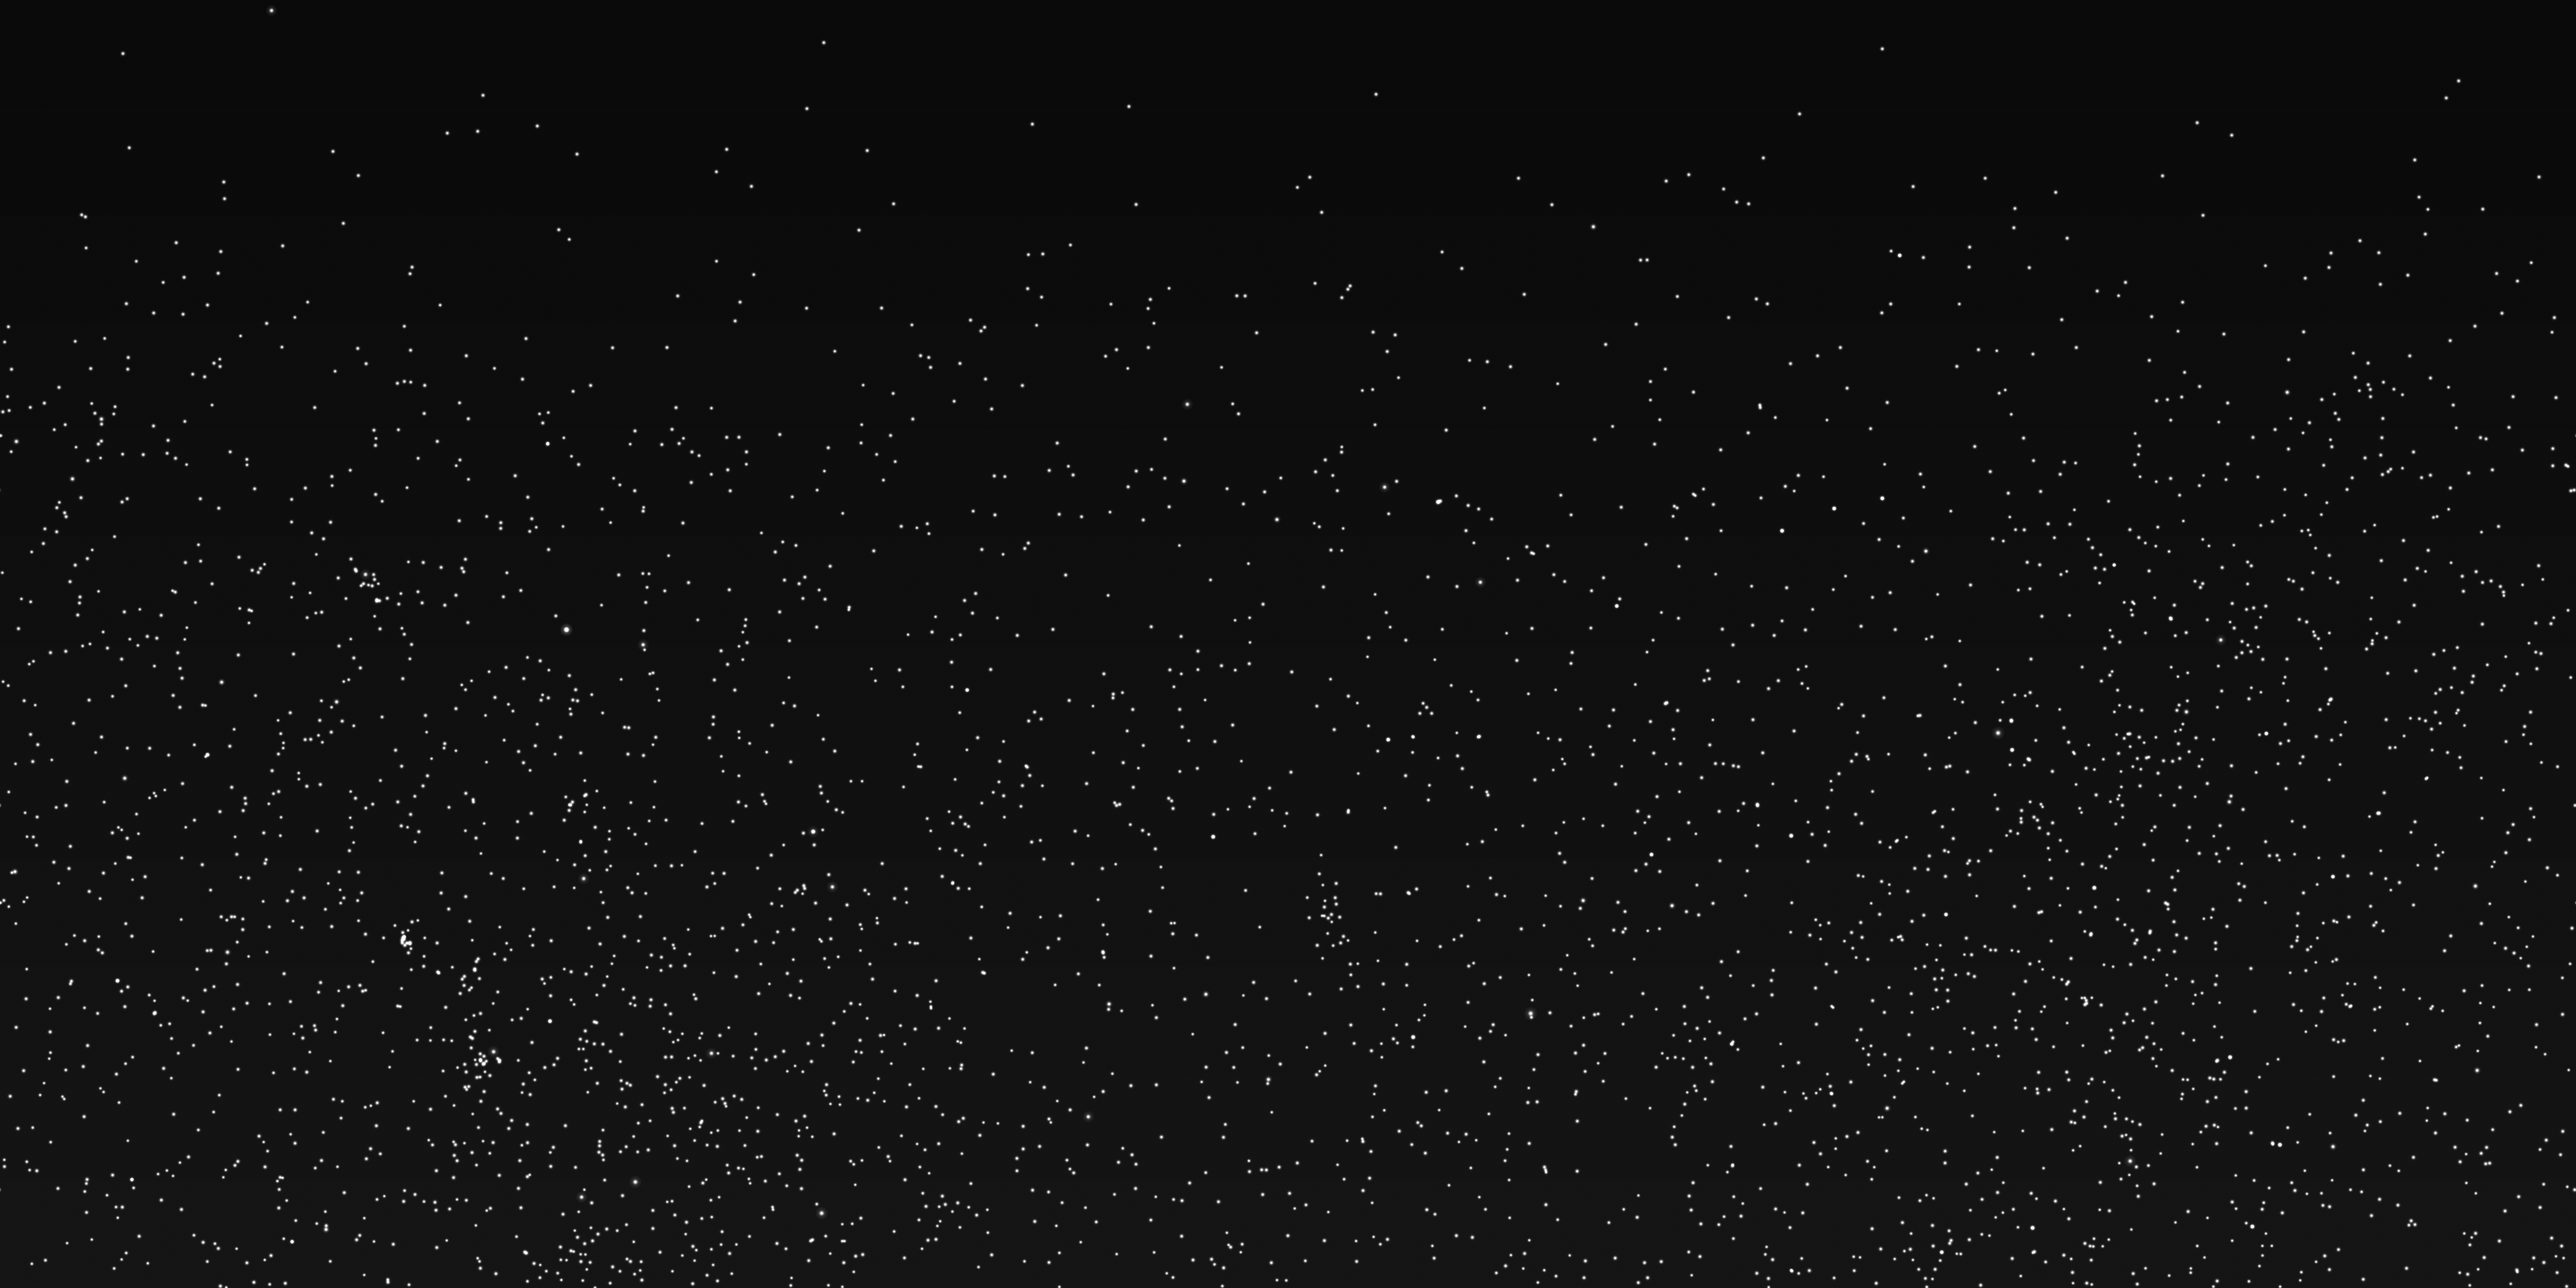
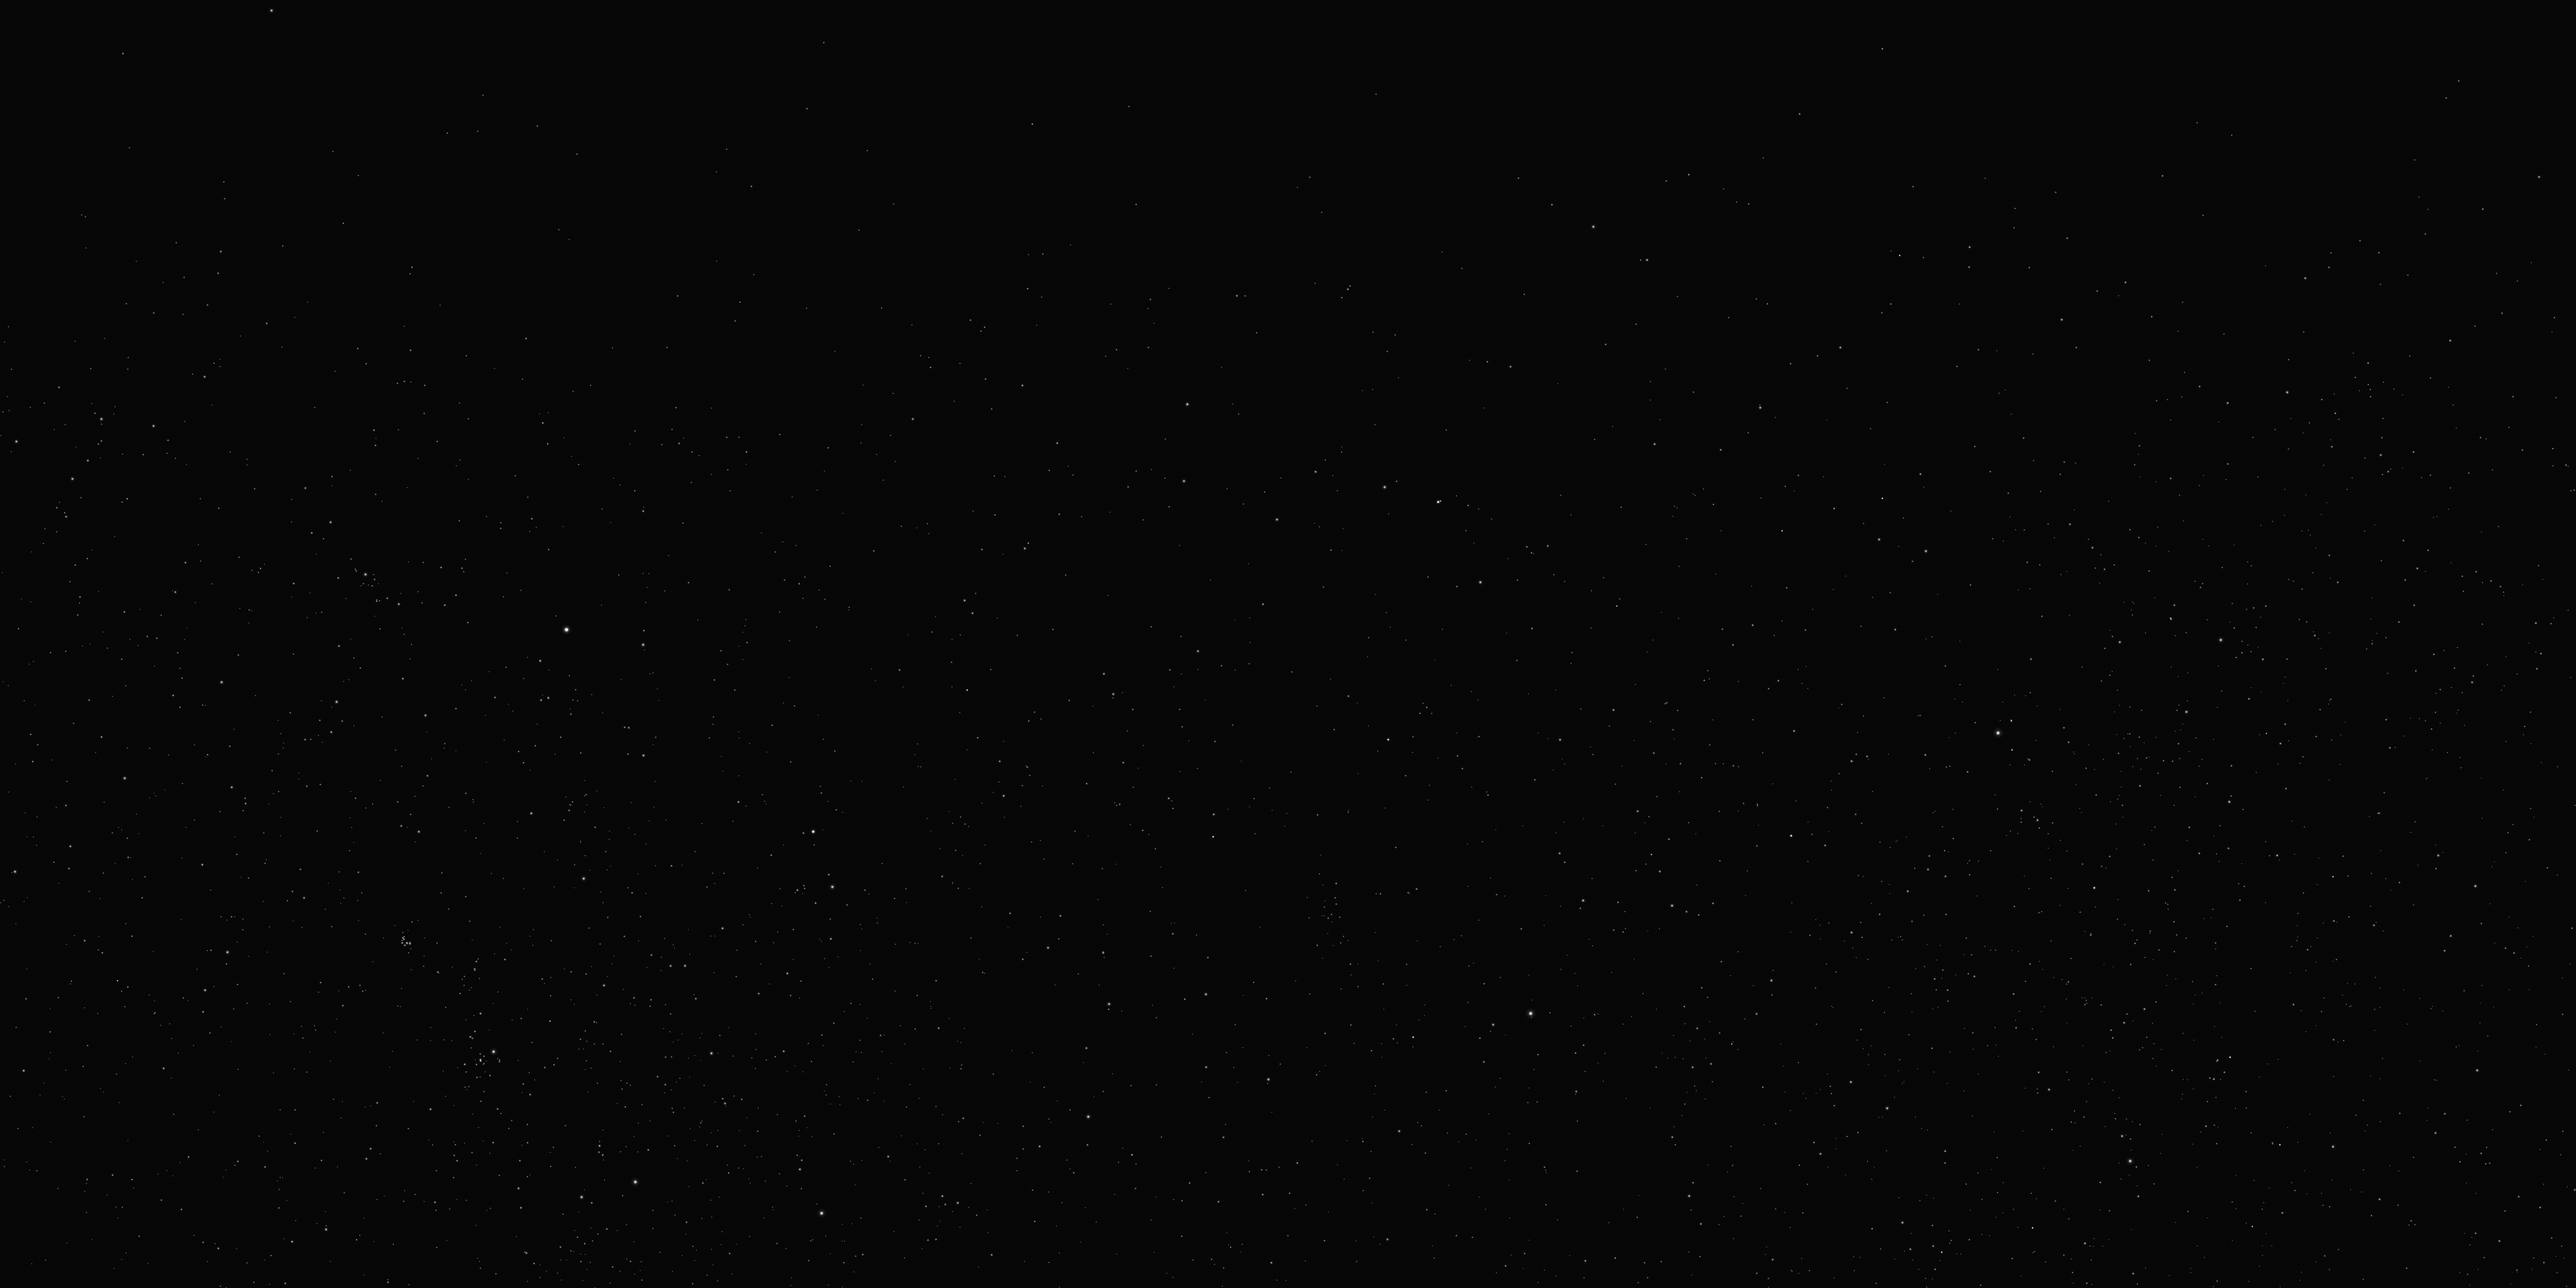
Final updates to skybox Started planning on M9 (the solar system)

Changed region(s): [[0.2188, 0.9688, 0.25, 1.0], [0.1875, 0.8125, 0.2188, 0.8438], [0.125, 0.4375, 0.1562, 0.4688]]

diff --git a/Mazen_Claude Shared/CameraState.swift b/Mazen_Claude Shared/CameraState.swift
@@ -8,7 +8,7 @@ enum CameraMode {
 struct CameraState {
     var mode: CameraMode = .orbit
     var orbitRotation: SIMD2<Float> = SIMD2(0.45, 0.5)
-    var orbitDistance: Float = 5.0
+    var orbitDistance: Float = 12.0
     var orbitAutoRotate: Bool = true
 
     mutating func updateOrbit(deltaTime: Float) {
